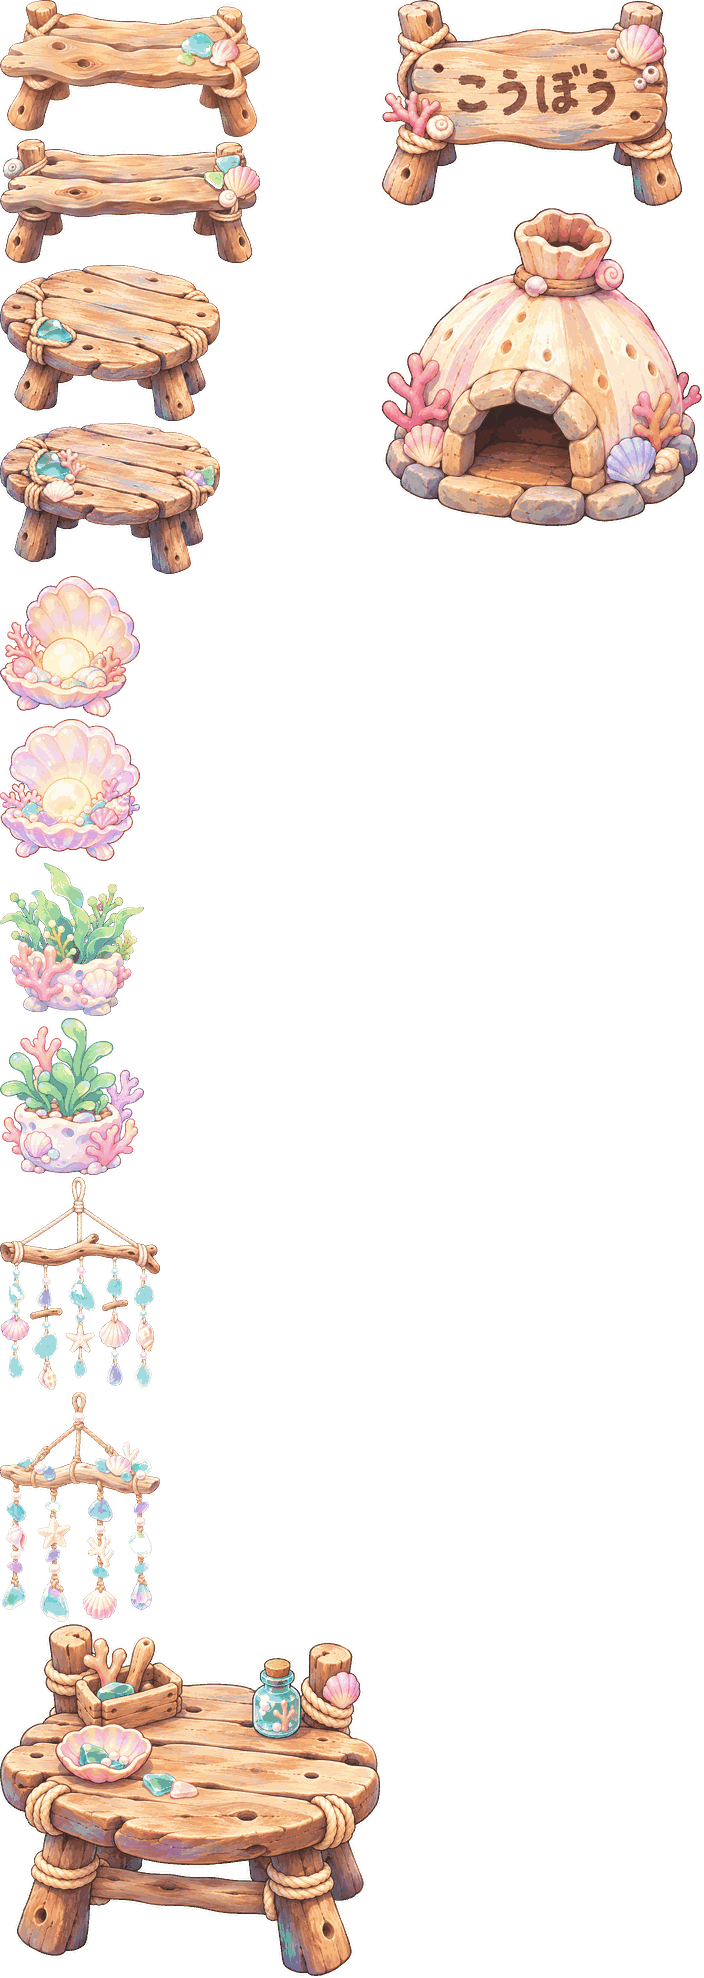
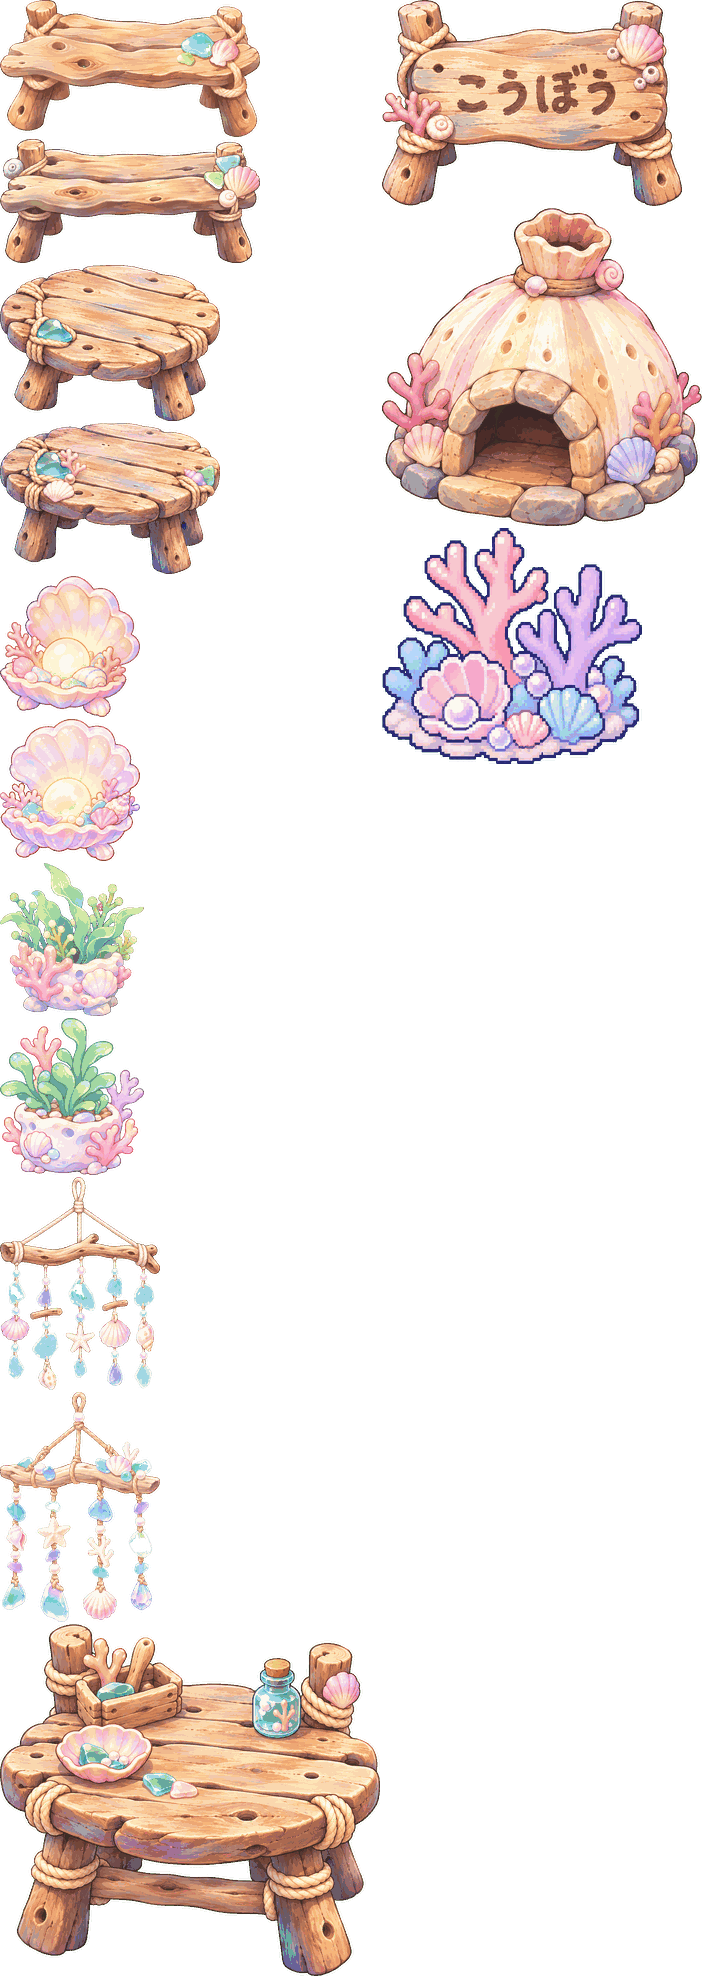
サンゴの森の背景と手前のサンゴを ピッちゃんの絵に（開発版）
Claude-Session: https://claude.ai/code/session_01AoJ88BrSyrEsKzo23n7Mg1

Changed region(s): [[0.5312, 0.2467, 0.9062, 0.4009]]

diff --git a/source/game.html b/source/game.html
@@ -850,7 +850,7 @@ sprImg.src = 'umimi-sprites.png';
 const COS_IMG = {};
 function cosImgFor(cat){ let im=COS_IMG[cat]; if(!im){ im=COS_IMG[cat]=new Image(); im.onload=()=>{ if(S){ renderTray(); if(!$('closet').hidden) renderCloset(); } }; im.src='c_'+cat+'.png'; } return (im.complete && im.naturalWidth) ? im : null; }
 const VIS_SPR = {"res":1.6,"m":{"jelly":{"w":172,"h":172,"a":"c","y":0},"star":{"w":145,"h":132,"a":"b","y":172},"seahorse":{"w":121,"h":180,"a":"c","y":304},"crab":{"w":180,"h":127,"a":"b","y":484},"dolphin":{"w":236,"h":144,"a":"c","y":611},"penguin":{"w":164,"h":147,"a":"b","y":755},"turtle":{"w":212,"h":145,"a":"b","y":902},"octopus":{"w":164,"h":156,"a":"b","y":1047},"puffer":{"w":161,"h":127,"a":"c","y":1203},"otter":{"w":204,"h":156,"a":"c","y":1330}}};
-const FIMG = {m:{"cbench":{"s":"craft","x":0,"y":0,"w":260,"h":137,"rw":130,"rh":68,"tw":110,"th":58},"cbench_f":{"s":"craft","x":0,"y":139,"w":260,"h":124,"rw":130,"rh":62,"tw":110,"th":52},"ctable":{"s":"craft","x":0,"y":265,"w":220,"h":156,"rw":110,"rh":78,"tw":92,"th":65},"ctable_f":{"s":"craft","x":0,"y":423,"w":220,"h":151,"rw":110,"rh":76,"tw":92,"th":64},"cshelllamp":{"s":"craft","x":0,"y":576,"w":140,"h":141,"rw":70,"rh":70,"tw":62,"th":62},"cshelllamp_f":{"s":"craft","x":0,"y":719,"w":140,"h":142,"rw":70,"rh":71,"tw":62,"th":63},"ccoralpot":{"s":"craft","x":0,"y":863,"w":144,"h":153,"rw":72,"rh":76,"tw":60,"th":63},"ccoralpot_f":{"s":"craft","x":0,"y":1018,"w":144,"h":157,"rw":72,"rh":78,"tw":60,"th":65},"cmobile":{"s":"craft","x":0,"y":1177,"w":160,"h":213,"rw":80,"rh":106,"tw":72,"th":95},"cmobile_f":{"s":"craft","x":0,"y":1392,"w":160,"h":230,"rw":80,"rh":115,"tw":72,"th":104},"bwork":{"s":"craft","x":0,"y":1624,"w":380,"h":352,"rw":190,"rh":176,"tw":190,"th":176},"bsign":{"s":"craft","x":382,"y":0,"w":300,"h":206,"rw":150,"rh":103,"tw":150,"th":103},"bkiln":{"s":"craft","x":382,"y":208,"w":320,"h":318,"rw":160,"rh":159,"tw":160,"th":159},"rug":{"s":"base","x":0,"y":0,"w":340,"h":190,"rw":170,"rh":95,"tw":0,"th":0},"bed":{"s":"base","x":0,"y":192,"w":300,"h":283,"rw":150,"rh":142,"tw":0,"th":0},"lamp":{"s":"base","x":0,"y":477,"w":132,"h":234,"rw":66,"rh":117,"tw":0,"th":0},"cushion":{"s":"base","x":0,"y":713,"w":160,"h":113,"rw":80,"rh":56,"tw":0,"th":0},"plant":{"s":"base","x":0,"y":828,"w":124,"h":153,"rw":62,"rh":76,"tw":0,"th":0},"shelf":{"s":"base","x":0,"y":983,"w":210,"h":332,"rw":105,"rh":166,"tw":0,"th":0},"window":{"s":"base","x":0,"y":1317,"w":270,"h":232,"rw":135,"rh":116,"tw":0,"th":0},"windowday":{"s":"base","x":0,"y":1551,"w":270,"h":232,"rw":135,"rh":116,"tw":0,"th":0},"frame":{"s":"base","x":0,"y":1785,"w":144,"h":148,"rw":72,"rh":74,"tw":0,"th":0},"table":{"s":"base","x":342,"y":0,"w":230,"h":187,"rw":115,"rh":94,"tw":0,"th":0},"shellbed":{"s":"pearl","x":0,"y":0,"w":350,"h":326,"rw":175,"rh":163,"tw":110,"th":102},"shelltable":{"s":"pearl","x":0,"y":328,"w":250,"h":160,"rw":125,"rh":80,"tw":82,"th":52},"shellchair":{"s":"pearl","x":0,"y":490,"w":210,"h":198,"rw":105,"rh":99,"tw":72,"th":68},"bottle":{"s":"pearl","x":0,"y":690,"w":116,"h":136,"rw":58,"rh":68,"tw":42,"th":49},"crystal2":{"s":"pearl","x":0,"y":828,"w":180,"h":164,"rw":90,"rh":82,"tw":62,"th":56},"shellcake":{"s":"pearl","x":0,"y":994,"w":156,"h":161,"rw":78,"rh":80,"tw":54,"th":55},"lanternstand":{"s":"autumn","x":0,"y":0,"w":200,"h":266,"rw":100,"rh":133,"tw":95,"th":126},"stall":{"s":"autumn","x":0,"y":268,"w":400,"h":313,"rw":200,"rh":156,"tw":180,"th":140},"kingyo":{"s":"autumn","x":0,"y":583,"w":380,"h":295,"rw":190,"rh":148,"tw":160,"th":125},"mcushion":{"s":"autumn","x":0,"y":880,"w":230,"h":142,"rw":115,"rh":71,"tw":90,"th":56},"garland":{"s":"autumn","x":0,"y":1024,"w":600,"h":198,"rw":300,"rh":99,"tw":200,"th":66},"chochin":{"s":"autumn","x":0,"y":1224,"w":160,"h":329,"rw":80,"rh":164,"tw":80,"th":164},"omen":{"s":"autumn","x":0,"y":1555,"w":400,"h":349,"rw":200,"rh":174,"tw":180,"th":157},"acorn":{"s":"autumn","x":602,"y":0,"w":120,"h":103,"rw":60,"rh":52,"tw":42,"th":36},"yakiimo":{"s":"autumn","x":602,"y":105,"w":140,"h":90,"rw":70,"rh":45,"tw":48,"th":31},"bridge":{"s":"autumn","x":602,"y":197,"w":460,"h":206,"rw":230,"rh":103,"tw":200,"th":90},"pumpkinstand":{"s":"halloween","x":0,"y":0,"w":170,"h":344,"rw":85,"rh":172,"tw":80,"th":162},"hrug":{"s":"halloween","x":0,"y":346,"w":340,"h":200,"rw":170,"rh":100,"tw":120,"th":71},"ghostcushion":{"s":"halloween","x":0,"y":548,"w":170,"h":149,"rw":85,"rh":74,"tw":72,"th":63},"hframe":{"s":"halloween","x":0,"y":699,"w":160,"h":187,"rw":80,"rh":94,"tw":0,"th":0},"candytable":{"s":"halloween","x":0,"y":888,"w":210,"h":244,"rw":105,"rh":122,"tw":82,"th":95},"hshelf":{"s":"halloween","x":0,"y":1134,"w":230,"h":309,"rw":115,"rh":154,"tw":100,"th":134},"jbox_0":{"s":"halloween","x":0,"y":1445,"w":170,"h":170,"rw":85,"rh":85,"tw":74,"th":74},"jbox_1":{"s":"halloween","x":0,"y":1617,"w":170,"h":170,"rw":85,"rh":85,"tw":74,"th":74},"jbox_2":{"s":"halloween","x":0,"y":1789,"w":170,"h":170,"rw":85,"rh":85,"tw":74,"th":74},"jbox_3":{"s":"halloween","x":342,"y":0,"w":170,"h":170,"rw":85,"rh":85,"tw":74,"th":74},"chandelier_0":{"s":"halloween","x":342,"y":172,"w":260,"h":375,"rw":130,"rh":188,"tw":0,"th":0},"chandelier_1":{"s":"halloween","x":342,"y":549,"w":260,"h":375,"rw":130,"rh":188,"tw":0,"th":0},"chandelier_2":{"s":"halloween","x":342,"y":926,"w":260,"h":375,"rw":130,"rh":188,"tw":0,"th":0},"jbox":{"s":"halloween","x":0,"y":1445,"w":170,"h":170,"rw":85,"rh":85,"tw":74,"th":74},"chandelier":{"s":"halloween","x":342,"y":172,"w":260,"h":375,"rw":130,"rh":188,"tw":0,"th":0},"pdresser":{"s":"pearl","x":0,"y":1157,"w":250,"h":279,"rw":125,"rh":140,"tw":84,"th":94},"pdresser2":{"s":"pearl","x":0,"y":1438,"w":240,"h":312,"rw":120,"rh":156,"tw":82,"th":107},"pnight":{"s":"pearl","x":0,"y":1752,"w":156,"h":203,"rw":78,"rh":102,"tw":56,"th":73},"psofa":{"s":"pearl","x":352,"y":0,"w":370,"h":241,"rw":185,"rh":120,"tw":124,"th":80},"pbox":{"s":"pearl","x":352,"y":243,"w":100,"h":83,"rw":50,"rh":42,"tw":36,"th":30}}};
+const FIMG = {m:{"cbench":{"s":"craft","x":0,"y":0,"w":260,"h":137,"rw":130,"rh":68,"tw":110,"th":58},"cbench_f":{"s":"craft","x":0,"y":139,"w":260,"h":124,"rw":130,"rh":62,"tw":110,"th":52},"ctable":{"s":"craft","x":0,"y":265,"w":220,"h":156,"rw":110,"rh":78,"tw":92,"th":65},"ctable_f":{"s":"craft","x":0,"y":423,"w":220,"h":151,"rw":110,"rh":76,"tw":92,"th":64},"cshelllamp":{"s":"craft","x":0,"y":576,"w":140,"h":141,"rw":70,"rh":70,"tw":62,"th":62},"cshelllamp_f":{"s":"craft","x":0,"y":719,"w":140,"h":142,"rw":70,"rh":71,"tw":62,"th":63},"ccoralpot":{"s":"craft","x":0,"y":863,"w":144,"h":153,"rw":72,"rh":76,"tw":60,"th":63},"ccoralpot_f":{"s":"craft","x":0,"y":1018,"w":144,"h":157,"rw":72,"rh":78,"tw":60,"th":65},"cmobile":{"s":"craft","x":0,"y":1177,"w":160,"h":213,"rw":80,"rh":106,"tw":72,"th":95},"cmobile_f":{"s":"craft","x":0,"y":1392,"w":160,"h":230,"rw":80,"rh":115,"tw":72,"th":104},"bwork":{"s":"craft","x":0,"y":1624,"w":380,"h":352,"rw":190,"rh":176,"tw":190,"th":176},"bsign":{"s":"craft","x":382,"y":0,"w":300,"h":206,"rw":150,"rh":103,"tw":150,"th":103},"bkiln":{"s":"craft","x":382,"y":208,"w":320,"h":318,"rw":160,"rh":159,"tw":160,"th":159},"rug":{"s":"base","x":0,"y":0,"w":340,"h":190,"rw":170,"rh":95,"tw":0,"th":0},"bed":{"s":"base","x":0,"y":192,"w":300,"h":283,"rw":150,"rh":142,"tw":0,"th":0},"lamp":{"s":"base","x":0,"y":477,"w":132,"h":234,"rw":66,"rh":117,"tw":0,"th":0},"cushion":{"s":"base","x":0,"y":713,"w":160,"h":113,"rw":80,"rh":56,"tw":0,"th":0},"plant":{"s":"base","x":0,"y":828,"w":124,"h":153,"rw":62,"rh":76,"tw":0,"th":0},"shelf":{"s":"base","x":0,"y":983,"w":210,"h":332,"rw":105,"rh":166,"tw":0,"th":0},"window":{"s":"base","x":0,"y":1317,"w":270,"h":232,"rw":135,"rh":116,"tw":0,"th":0},"windowday":{"s":"base","x":0,"y":1551,"w":270,"h":232,"rw":135,"rh":116,"tw":0,"th":0},"frame":{"s":"base","x":0,"y":1785,"w":144,"h":148,"rw":72,"rh":74,"tw":0,"th":0},"table":{"s":"base","x":342,"y":0,"w":230,"h":187,"rw":115,"rh":94,"tw":0,"th":0},"shellbed":{"s":"pearl","x":0,"y":0,"w":350,"h":326,"rw":175,"rh":163,"tw":110,"th":102},"shelltable":{"s":"pearl","x":0,"y":328,"w":250,"h":160,"rw":125,"rh":80,"tw":82,"th":52},"shellchair":{"s":"pearl","x":0,"y":490,"w":210,"h":198,"rw":105,"rh":99,"tw":72,"th":68},"bottle":{"s":"pearl","x":0,"y":690,"w":116,"h":136,"rw":58,"rh":68,"tw":42,"th":49},"crystal2":{"s":"pearl","x":0,"y":828,"w":180,"h":164,"rw":90,"rh":82,"tw":62,"th":56},"shellcake":{"s":"pearl","x":0,"y":994,"w":156,"h":161,"rw":78,"rh":80,"tw":54,"th":55},"lanternstand":{"s":"autumn","x":0,"y":0,"w":200,"h":266,"rw":100,"rh":133,"tw":95,"th":126},"stall":{"s":"autumn","x":0,"y":268,"w":400,"h":313,"rw":200,"rh":156,"tw":180,"th":140},"kingyo":{"s":"autumn","x":0,"y":583,"w":380,"h":295,"rw":190,"rh":148,"tw":160,"th":125},"mcushion":{"s":"autumn","x":0,"y":880,"w":230,"h":142,"rw":115,"rh":71,"tw":90,"th":56},"garland":{"s":"autumn","x":0,"y":1024,"w":600,"h":198,"rw":300,"rh":99,"tw":200,"th":66},"chochin":{"s":"autumn","x":0,"y":1224,"w":160,"h":329,"rw":80,"rh":164,"tw":80,"th":164},"omen":{"s":"autumn","x":0,"y":1555,"w":400,"h":349,"rw":200,"rh":174,"tw":180,"th":157},"acorn":{"s":"autumn","x":602,"y":0,"w":120,"h":103,"rw":60,"rh":52,"tw":42,"th":36},"yakiimo":{"s":"autumn","x":602,"y":105,"w":140,"h":90,"rw":70,"rh":45,"tw":48,"th":31},"bridge":{"s":"autumn","x":602,"y":197,"w":460,"h":206,"rw":230,"rh":103,"tw":200,"th":90},"pumpkinstand":{"s":"halloween","x":0,"y":0,"w":170,"h":344,"rw":85,"rh":172,"tw":80,"th":162},"hrug":{"s":"halloween","x":0,"y":346,"w":340,"h":200,"rw":170,"rh":100,"tw":120,"th":71},"ghostcushion":{"s":"halloween","x":0,"y":548,"w":170,"h":149,"rw":85,"rh":74,"tw":72,"th":63},"hframe":{"s":"halloween","x":0,"y":699,"w":160,"h":187,"rw":80,"rh":94,"tw":0,"th":0},"candytable":{"s":"halloween","x":0,"y":888,"w":210,"h":244,"rw":105,"rh":122,"tw":82,"th":95},"hshelf":{"s":"halloween","x":0,"y":1134,"w":230,"h":309,"rw":115,"rh":154,"tw":100,"th":134},"jbox_0":{"s":"halloween","x":0,"y":1445,"w":170,"h":170,"rw":85,"rh":85,"tw":74,"th":74},"jbox_1":{"s":"halloween","x":0,"y":1617,"w":170,"h":170,"rw":85,"rh":85,"tw":74,"th":74},"jbox_2":{"s":"halloween","x":0,"y":1789,"w":170,"h":170,"rw":85,"rh":85,"tw":74,"th":74},"jbox_3":{"s":"halloween","x":342,"y":0,"w":170,"h":170,"rw":85,"rh":85,"tw":74,"th":74},"chandelier_0":{"s":"halloween","x":342,"y":172,"w":260,"h":375,"rw":130,"rh":188,"tw":0,"th":0},"chandelier_1":{"s":"halloween","x":342,"y":549,"w":260,"h":375,"rw":130,"rh":188,"tw":0,"th":0},"chandelier_2":{"s":"halloween","x":342,"y":926,"w":260,"h":375,"rw":130,"rh":188,"tw":0,"th":0},"jbox":{"s":"halloween","x":0,"y":1445,"w":170,"h":170,"rw":85,"rh":85,"tw":74,"th":74},"chandelier":{"s":"halloween","x":342,"y":172,"w":260,"h":375,"rw":130,"rh":188,"tw":0,"th":0},"pdresser":{"s":"pearl","x":0,"y":1157,"w":250,"h":279,"rw":125,"rh":140,"tw":84,"th":94},"pdresser2":{"s":"pearl","x":0,"y":1438,"w":240,"h":312,"rw":120,"rh":156,"tw":82,"th":107},"pnight":{"s":"pearl","x":0,"y":1752,"w":156,"h":203,"rw":78,"rh":102,"tw":56,"th":73},"psofa":{"s":"pearl","x":352,"y":0,"w":370,"h":241,"rw":185,"rh":120,"tw":124,"th":80},"pbox":{"s":"pearl","x":352,"y":243,"w":100,"h":83,"rw":50,"rh":42,"tw":36,"th":30},"bcoral":{"s":"craft","x":382,"y":528,"w":260,"h":236,"rw":130,"rh":118,"tw":130,"th":118}}};
 const FSHEETS = {};
 function fsheet(n){ let im=FSHEETS[n]; if(!im){ im=FSHEETS[n]=new Image(); im.onload=()=>{ if(S && mode==='decor') renderTray(); if(typeof asobiView!=='undefined' && asobiView==='room' && room && room.edit) renderAsobi(); }; im.src='f_'+n+'.png'; } return (im.complete && im.naturalWidth) ? im : null; }
 function animKey(k,seed){
@@ -3885,8 +3885,24 @@ function drawCoral(c,co,x,base,s,col,sway){
   co.segs.forEach(([x1,y1,x2,y2,w]) => { if(x1===x2 && y1===y2){ c.beginPath(); c.arc(x1,y1,w*.5,0,TAU); c.fill(); } else { c.lineWidth=w; c.beginPath(); c.moveTo(x1,y1); c.lineTo(x2,y2); c.stroke(); } });
   c.restore();
 }
+const bgForest = new Image(); let bgForestOn = false; bgForest.onload = () => { bgForestOn = true; }; bgForest.src = 'bg_forest.png';
+const BGF_FLOOR = .66;   // 絵の中の 砂の はじまり（高さの わりあい）
 function drawBgB(p){
   const c = ctx, sc = bScn;
+  if(bgForestOn && bgForest.naturalWidth){
+    const iw = bgForest.naturalWidth, ih = bgForest.naturalHeight;
+    const s = Math.max(W/iw, floorTop/(BGF_FLOOR*ih), (H-floorTop)/((1-BGF_FLOOR)*ih));
+    const ox = (W - iw*s)/2, oy = floorTop - BGF_FLOOR*ih*s;
+    c.imageSmoothingEnabled = false; c.drawImage(bgForest, ox, oy, iw*s, ih*s); c.imageSmoothingEnabled = true;
+    { const g = c.createLinearGradient(0,0,0,H); g.addColorStop(0,'rgba(236,240,255,.10)'); g.addColorStop(.55,'rgba(236,240,255,.22)'); g.addColorStop(1,'rgba(244,240,255,.30)'); c.fillStyle = g; c.fillRect(0,0,W,H); }   // 手前の ウミミや そざいが 見やすいように 少し うすく
+    if(dusk > .01){ c.fillStyle = `rgba(255,170,190,${.16*dusk})`; c.fillRect(0,0,W,H); }
+    if(night > .01){ c.fillStyle = `rgba(18,26,70,${.5*night})`; c.fillRect(0,0,W,H);
+      const moonX = W*0.2, moonY = 56; c.globalAlpha = night; const g = c.createRadialGradient(moonX,moonY,0,moonX,moonY,120); g.addColorStop(0,'rgba(255,246,214,.45)'); g.addColorStop(1,'rgba(255,246,214,0)'); c.fillStyle = g; c.fillRect(moonX-120,moonY-120,240,240);
+      c.fillStyle = 'rgba(255,245,210,.9)'; c.beginPath(); c.ellipse(moonX+Math.sin(T*.8)*2,moonY,22,19,0,0,TAU); c.fill(); c.globalAlpha = 1; }
+    c.strokeStyle = `rgba(255,255,255,${.4-.25*night})`; c.lineWidth = 2; c.beginPath();
+    for(let x=0;x<=W;x+=20) c.lineTo(x, 12+Math.sin(x*.02+T*1.2)*3+Math.sin(x*.047-T)*2); c.stroke();
+    return;
+  }
   let g = c.createLinearGradient(0, 0, 0, floorTop+40); g.addColorStop(0,p.wt); g.addColorStop(1,p.wb);
   c.fillStyle = g; c.fillRect(0,0,W,H);
   const moonX = W*0.2, moonY = 56;
@@ -3978,7 +3994,8 @@ function drawAreaB(){
   const p = scenePalB(phase);
   drawBgB(p);
   const items = [];
-  bScn.front.forEach(co => items.push({y:floorY(co.d)-.02, f:() => { const s=scaleD(co.d); drawCoral(c,co,co.x,floorY(co.d)+4*s,s,co.col,.03);
+  if(bgForestOn) [[95,.97,1],[975,.9,.85]].forEach(([x,d,k2]) => { const fm=FIMG.m.bcoral; if(fm && fsheet(fm.s)) items.push({y:floorY(d)+.03, f:() => { const s=scaleD(d)*k2; c.save(); c.translate(x,floorY(d)+6*s); c.scale(s,s); drawFImg(c,'bcoral',fm.tw,fm.th,0); c.restore(); }}); });
+  if(!bgForestOn) bScn.front.forEach(co => items.push({y:floorY(co.d)-.02, f:() => { const s=scaleD(co.d); drawCoral(c,co,co.x,floorY(co.d)+4*s,s,co.col,.03);
     if(night>.05) co.segs.forEach(sg => { if(sg[0]===sg[2] && sg[1]===sg[3]) glows.push({x:co.x+sg[0]*s, y:floorY(co.d)+4*s+sg[1]*s, r:14*s, col:'255,200,230', a:.22*night}); }); }}));
   items.push({y:floorY(B_SIGN.d)-.01, f:() => drawSign(c)});
   items.push({y:floorY(B_BENCH.d)-.01, f:() => drawBench(c)});
@@ -3994,7 +4011,7 @@ function drawAreaB(){
     else if(pt.type==='spark'){ c.fillStyle='#ffe9a6'; sparkle(c,pt.x,pt.y,pt.r); }
     else if(pt.type==='ring'){ c.strokeStyle='rgba(255,255,255,.8)'; c.lineWidth=2; c.beginPath(); c.ellipse(pt.x,pt.y,pt.r,pt.r*.45,0,0,TAU); c.stroke(); } });
   c.globalAlpha = 1;
-  const veil = .2*night + .05*dusk;
+  const veil = bgForestOn ? .08*night : .2*night + .05*dusk;
   if(veil > .005){ c.fillStyle = `rgba(14,26,58,${veil})`; c.fillRect(0,0,W,H); }
   pB.forEach(pt => { if(pt.type!=='say') return; c.globalAlpha = clamp(pt.life/pt.max*1.6,0,1);
     c.font=`600 ${Math.round(pt.r)}px "Klee One", "Zen Maru Gothic", sans-serif`; c.textAlign='center'; c.lineWidth=4; c.strokeStyle='rgba(255,255,255,.92)'; c.strokeText(pt.text,pt.x,pt.y); c.fillStyle='#3f5a74'; c.fillText(pt.text,pt.x,pt.y); });

diff --git a/source/furniture/build_furniture2.py b/source/furniture/build_furniture2.py
@@ -9,7 +9,7 @@ SERIES = {
  'base':    {'rug':(170,0),'bed':(150,0),'lamp':(66,0),'cushion':(80,0),'plant':(62,0),'shelf':(105,0),'window':(135,0),'windowday':(135,0),'frame':(72,0),'table':(115,0)},
  'pearl':   {'shellbed':(175,110),'shelltable':(125,82),'shellchair':(105,72),'bottle':(58,42),'crystal2':(90,62),'shellcake':(78,54),'pdresser':(125,84),'pdresser2':(120,82),'pnight':(78,56),'psofa':(185,124),'pbox':(50,36)},
  'autumn':  {'lanternstand':(100,95),'stall':(200,180),'kingyo':(190,160),'mcushion':(115,90),'garland':(300,200),'chochin':(80,80),'omen':(200,180),'acorn':(60,42),'yakiimo':(70,48),'bridge':(230,200)},
- 'craft':   {'cbench':(130,110),'cbench_f':(130,110),'ctable':(110,92),'ctable_f':(110,92),'cshelllamp':(70,62),'cshelllamp_f':(70,62),'ccoralpot':(72,60),'ccoralpot_f':(72,60),'cmobile':(80,72),'cmobile_f':(80,72),'bwork':(190,190),'bsign':(150,150),'bkiln':(160,160)},
+ 'craft':   {'cbench':(130,110),'cbench_f':(130,110),'ctable':(110,92),'ctable_f':(110,92),'cshelllamp':(70,62),'cshelllamp_f':(70,62),'ccoralpot':(72,60),'ccoralpot_f':(72,60),'cmobile':(80,72),'cmobile_f':(80,72),'bwork':(190,190),'bsign':(150,150),'bkiln':(160,160),'bcoral':(130,130)},
  'halloween':{'pumpkinstand':(85,80),'hrug':(170,120),'ghostcushion':(85,72),'hframe':(80,0),'candytable':(105,82),'hshelf':(115,100),'jbox':(85,74,4,'b'),'chandelier':(130,0,3,'t')},
 }
 def keyed(a):

diff --git a/CLAUDE.md b/CLAUDE.md
@@ -11,7 +11,7 @@
 ## ★新しい会話で続けるとき（最初に読む）
 - 作業場所：このリポジトリを clone（例 /home/claude/umimi-repo）。本体は `source/game.html`、画像は直下の png
 - **本番・開発版のリンクは絶対に変えない**。Artifact を公開するときは必ず `url` に下の既存URLを渡す（url なしで公開すると別リンクが新しくできてしまう）。別の会話から更新する前に、いったん `action: "read"` でその URL を読む
-- 公開するとき、画像は `files` に**絶対パス**で全部渡す：`c_animal.png` `c_food.png` `c_season.png` `c_work.png` `c_fashion.png` `c_relax.png` `c_dream.png` `c_adv.png` `c_princess.png`、2コマ目の `c_<分類>2.png`（9枚）、`umimi-sprites.png` `visitors.png` `roomtex.png` `f_base.png` `f_pearl.png` `f_autumn.png` `f_halloween.png` `f_craft.png`。capability は `downloads`（前のバージョンから引き継がれる）
+- 公開するとき、画像は `files` に**絶対パス**で全部渡す：`c_animal.png` `c_food.png` `c_season.png` `c_work.png` `c_fashion.png` `c_relax.png` `c_dream.png` `c_adv.png` `c_princess.png`、2コマ目の `c_<分類>2.png`（9枚）、`umimi-sprites.png` `visitors.png` `roomtex.png` `f_base.png` `f_pearl.png` `f_autumn.png` `f_halloween.png` `f_craft.png` `bg_forest.png`。capability は `downloads`（前のバージョンから引き継がれる）
 - 開発版は `<title>ウミミの箱庭</title>` を `<title>ウミミの箱庭 開発版</title>` に置き換えたものを公開する
 - 確認用：ローカルで `python3 -m http.server` を立て、`<!doctype html><meta charset=utf-8>` を先頭に付けた試験用コピーを Playwright（/opt/pw-browsers）で開く。本体は IIFE なので、試すときは試験用コピーにだけ window.__xxx のフックを足す
 - 公開するときは「開発版か本番か」を必ずユーザーに伝える。本番は OK が出てから
@@ -73,6 +73,7 @@
 - 水そうの左上のタブで切り替え（パネルを開いているあいだは隠れる）（`buildAreaTabs()`。`nav.tools` が無いデスクトップ版では作らない＝`areaUI()`）。B のときは body.areaB でツールを隠し、トレイは `renderTrayB()`（おでかけする子をえらぶ）
 - B は同じキャンバスに `drawAreaB()` で描く。A の `update()` は B を見ているあいだも動き続ける（A の暮らしはそのまま）
 - おでかけ：えらんだ子（最大 `B_MAX`=3）の**コピー**が B を歩く（A にもいる）。`S.areaB = {members:[id], visited}`、いま見ているエリアは `S.area`（'a'|'b'）。コピーは `bCopies`（保存しない）、パーティクルは `pB`
+- B の背景はピッちゃん作の `bg_forest.png`（1672x941、256色。元は source/furniture/src/forestbg_src.png）。絵の中の砂のはじまり `BGF_FLOOR`=.66 を floorTop に合わせて拡大・切り取り、うすい白をかけて手前を見やすくしている。夕方・夜は色をかぶせる。読み込み前はコードの絵。手前のサンゴは `bcoral`（f_craft.png）を左右に2つ
 - B の作業台（`B_BENCH`）・貝殻窯（`B_KILN`）・看板はまだ飾り（タップで「もうすぐ」）
 - そざい（ステップ2）：`MATS` 5種＝流木 wood／貝がら shell／サンゴのかけら coral／海ガラス glass／ほしのすな sand（w は出やすさ）。もっている数は `S.mats`
   - 流れ着く：森の砂に `S.bDrops`（さいだい `DROP_MAX`=6）。開いているあいだ 70〜130秒に1こ（A を見ていても）、るすのあいだは30分に1こ（`awayDrops`）。タップで +1
